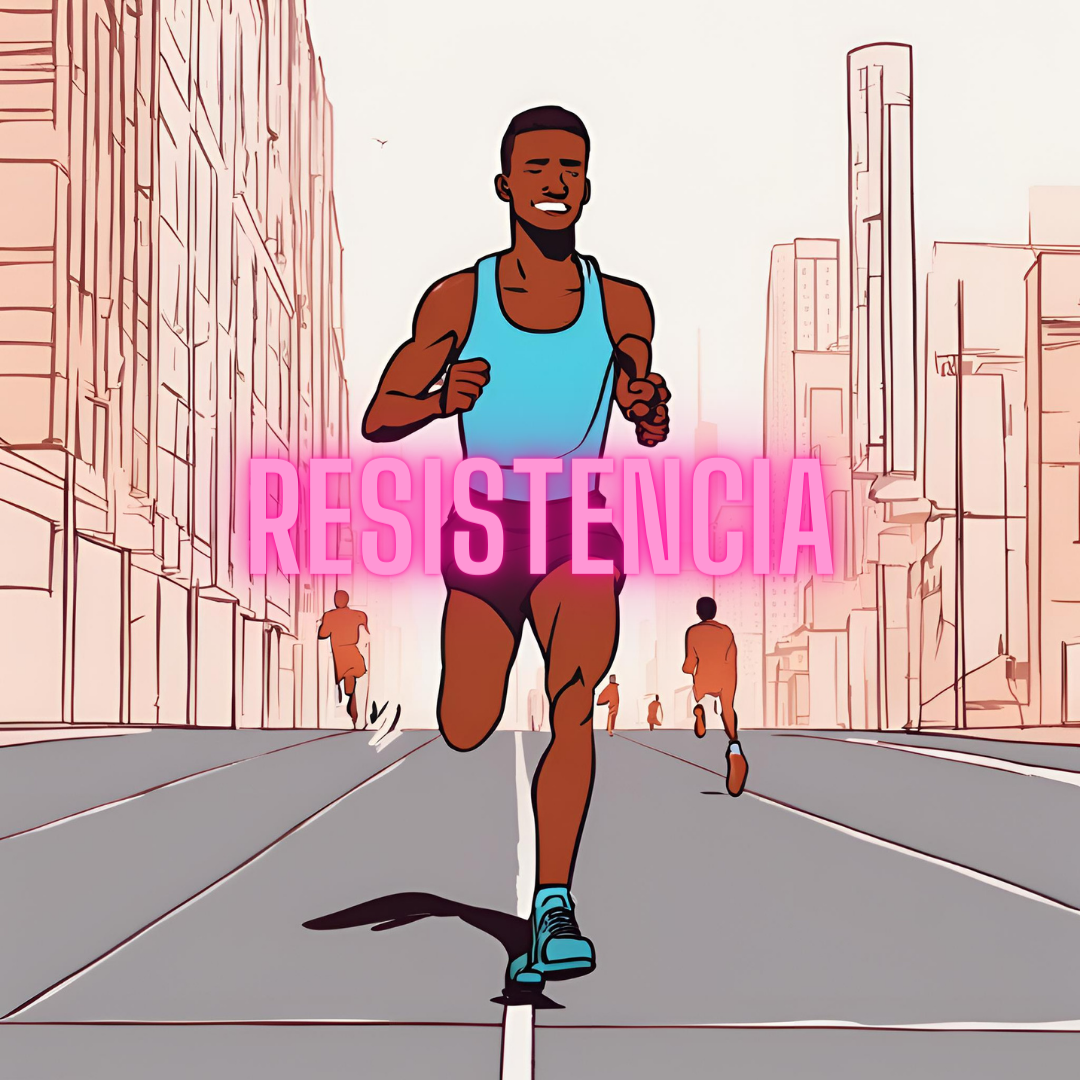
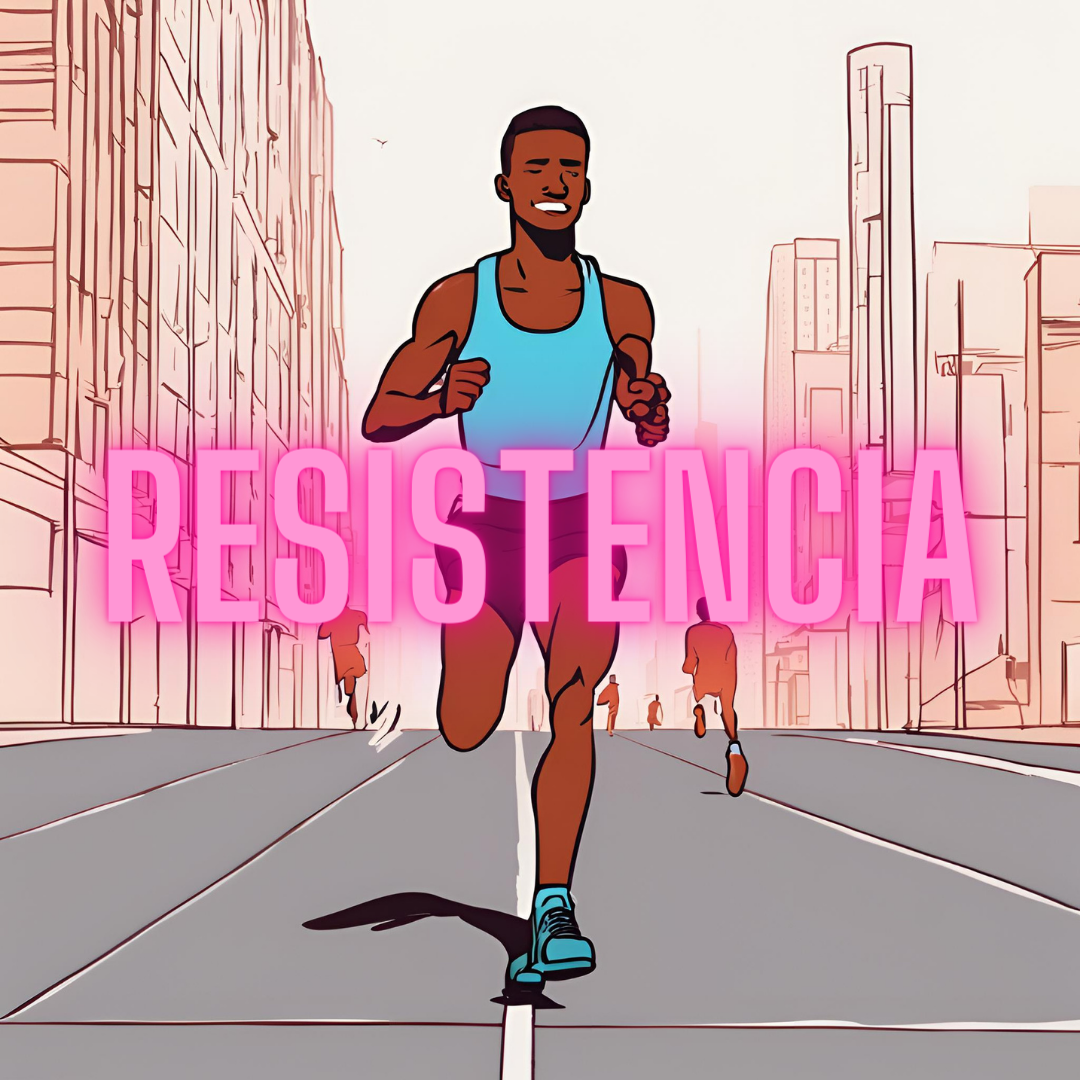
changes

Changed region(s): [[0.0611, 0.3667, 0.9472, 0.6111]]

diff --git a/lib/presentation/routines_screen.dart b/lib/presentation/routines_screen.dart
@@ -38,6 +38,15 @@ class _RoutinesScreenState extends State<RoutinesScreen> {
       aim: 0,
       image: 'assets/resistencia.png',
     ),
+    Routine(
+      title: 'Resistencia Avanzada',
+      description:
+          'Rutina diseñada para corredores con experiencia que buscan llevar su resistencia al siguiente nivel. desafía los límites físicos y mentales, preparando a los corredores para competencias de larga distancia y ultramaratones. Se recomienda un alto nivel de condición física previa y supervisión profesional para realizar esta rutina de manera segura y efectiva.',
+      duration: 10,
+      exercises: List.empty(),
+      aim: 0,
+      image: 'assets/resistenciaAvanzada.png',
+    ),
   ];
 
   void _showRoutineDetails(BuildContext context, Routine rutina) {
